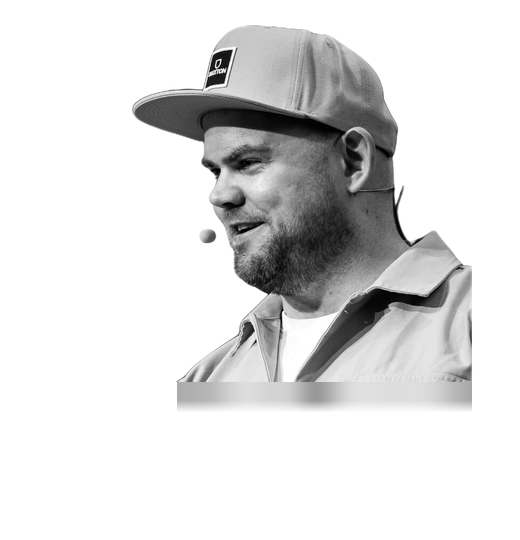
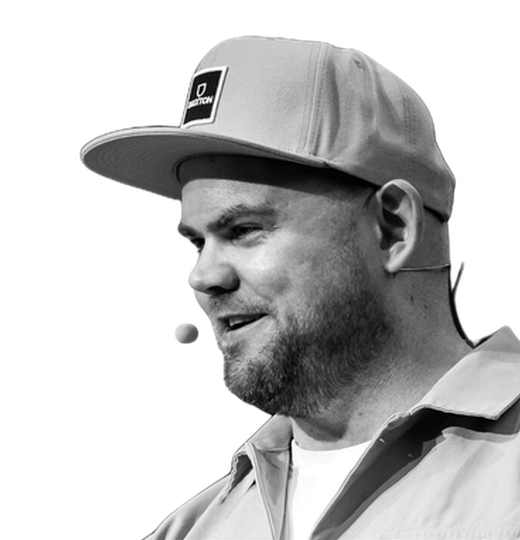
fix: zoom Daniel's and Ryan's cutouts so the body reaches the bottom
Instead of a filler under the body, scale each cutout up until its last
solid row is the bottom row (x1.28 and x1.41), cropping the sides evenly.
zoom_to_body.py does it; cutouts.py uses it for the people in ZOOMED and
fills the rest. The --max-rows fill option is gone again.

diff --git a/scripts/fill_below_body.py b/scripts/fill_below_body.py
@@ -9,16 +9,9 @@ smoothed sideways so single columns of texture do not stretch into streaks.
 Only tones that are already in the body are used. Image size is unchanged.
 
   python3 scripts/fill_below_body.py src/images/people/*-cutout.png   # in place
-  python3 scripts/fill_below_body.py --max-rows 30 <file>             # shallower fill
-
---max-rows limits how far the body is extended; the rest stays transparent and
-the last rows fade out, for cutouts where a deep fill shows in the plate's
-valleys (Daniel, Ryan: see FILL_LIMITS in cutouts.py).
 
 Needs only pillow and numpy. cutouts.py runs it on every new cutout.
 """
-from __future__ import annotations
-
 import sys
 
 import numpy as np
@@ -32,11 +25,9 @@ SAFE_MARGIN = 2
 SAMPLE_ROWS = 24
 # sideways smoothing of the fill colour, in pixels (Gaussian sigma)
 SMOOTH_SIGMA = 14
-# with --max-rows, this many of the last filled rows fade to transparent
-FADE_ROWS = 12
 
 
-def fill_below_body(path: str, max_rows: int | None = None) -> int:
+def fill_below_body(path: str) -> int:
     """Fill in place; returns how many rows were filled (0 if already full)."""
     im = Image.open(path).convert("LA")
     px = np.asarray(im).copy()
@@ -68,25 +59,12 @@ def fill_below_body(path: str, max_rows: int | None = None) -> int:
     )
     column_gray = np.where(body_columns, smooth, 0)
 
-    filled = height - 1 - edge
-    if max_rows is not None:
-        filled = min(filled, max_rows)
-    rows = slice(edge + 1, edge + 1 + filled)
-    # opacity 1 for most of the fill, then a linear fade over the last rows
-    fade = np.ones(filled, dtype=np.float32)
-    if max_rows is not None:
-        n = min(FADE_ROWS, filled)
-        fade[filled - n :] = np.linspace(1, 0, n, endpoint=False)
-    px[rows, :, 0] = np.where(body_columns, column_gray, 0).astype(np.uint8)
-    px[rows, :, 1] = (np.where(body_columns, 255, 0) * fade[:, None]).astype(np.uint8)
+    px[edge + 1 :, :, 0] = np.where(body_columns, column_gray, 0).astype(np.uint8)
+    px[edge + 1 :, :, 1] = np.where(body_columns, 255, 0).astype(np.uint8)
     Image.fromarray(px, "LA").save(path, optimize=True)
-    return filled
+    return height - 1 - bottom
 
 
 if __name__ == "__main__":
-    args = sys.argv[1:]
-    limit = None
-    if args[:1] == ["--max-rows"]:
-        limit, args = int(args[1]), args[2:]
-    for file in args:
-        print(f"{file}: filled {fill_below_body(file, limit)}px")
+    for file in sys.argv[1:]:
+        print(f"{file}: filled {fill_below_body(file)}px")

diff --git a/scripts/zoom_to_body.py b/scripts/zoom_to_body.py
@@ -1,0 +1,43 @@
+"""
+Zooms a speaker cutout in until the body reaches the bottom edge.
+
+For cutouts where filling the band under the body looks wrong (the body ends
+where the plate valleys are, so the fill shows), scale the whole cutout up
+instead: the body's last solid row lands on the bottom row, the head grows by
+the same factor, and the sides are cropped evenly. Image size is unchanged.
+
+  python3 scripts/zoom_to_body.py src/images/people/ryan-townsend-cutout.png   # in place
+
+Run it on a fresh cutout, not on one that was already filled or zoomed. Needs
+only pillow and numpy. cutouts.py runs it for the people listed in ZOOMED.
+"""
+import sys
+
+import numpy as np
+from PIL import Image
+
+# alpha above this counts as body
+SOLID = 128
+# skip the feathered last rows of the matte when picking the bottom row
+SAFE_MARGIN = 2
+
+
+def zoom_to_body(path: str) -> float:
+    """Zoom in place; returns the scale factor (1.0 if the body already reaches the bottom)."""
+    im = Image.open(path).convert("LA")
+    width, height = im.size
+    alpha = np.asarray(im)[:, :, 1]
+    solid_rows = np.where(alpha.max(axis=1) > SOLID)[0]
+    if len(solid_rows) == 0 or solid_rows.max() >= height - 1:
+        return 1.0
+    edge = max(int(solid_rows.max()) - SAFE_MARGIN, 0)
+    scale = height / (edge + 1)
+    zoomed = im.resize((round(width * scale), round(height * scale)), Image.LANCZOS)
+    left = (zoomed.width - width) // 2
+    zoomed.crop((left, 0, left + width, height)).save(path, optimize=True)
+    return scale
+
+
+if __name__ == "__main__":
+    for file in sys.argv[1:]:
+        print(f"{file}: zoomed x{zoom_to_body(file):.2f}")

diff --git a/scripts/cutouts.py b/scripts/cutouts.py
@@ -18,6 +18,7 @@ import os
 import sys
 
 from fill_below_body import fill_below_body
+from zoom_to_body import zoom_to_body
 
 import numpy as np
 from PIL import Image, ImageDraw, ImageFilter
@@ -31,8 +32,8 @@ spec.loader.exec_module(cutout)
 original_mask = cutout.mask
 current = {"name": ""}
 
-# Cutouts where a full-depth fill shows in the plate valleys: fill only this many rows.
-FILL_LIMITS = {"daniel-roe": 30, "ryan-townsend": 30}
+# Cutouts where filling under the body shows in the plate valleys: zoom in instead.
+ZOOMED = {"daniel-roe", "ryan-townsend"}
 
 
 def polygon_mask(size, head_ellipse, body_polygon):
@@ -76,6 +77,9 @@ if __name__ == "__main__":
         current["name"] = name
         out = f"{os.environ['OUT_DIR']}/{name}-cutout.png"
         cutout.process(file, out)
-        # no transparent band under the body (see fill_below_body.py)
-        filled = fill_below_body(out, FILL_LIMITS.get(name))
-        print("wrote", name, f"(filled {filled}px under the body)")
+        # no transparent band under the body: zoom in where a fill would show
+        if name in ZOOMED:
+            note = f"zoomed x{zoom_to_body(out):.2f}"
+        else:
+            note = f"filled {fill_below_body(out)}px under the body"
+        print("wrote", name, f"({note})")
